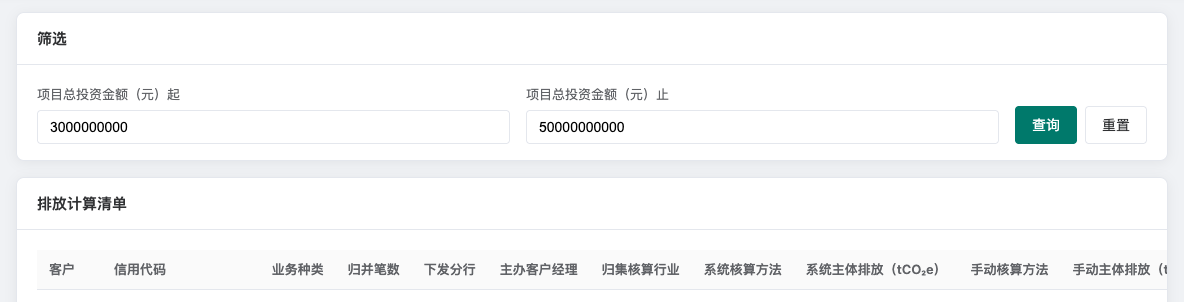
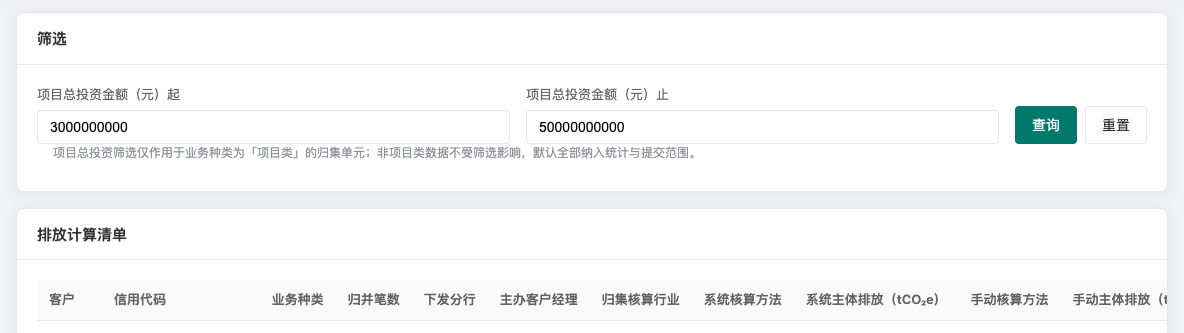
feat: 项目类专属投资额筛选与更新说明截图
项目总投资筛选仅作用于项目类归集单元，非项目类始终全量纳入统计与提交；同步更新说明文案与排放计算、排放数据 DEV 填报说明截图。

diff --git a/assets/js/common.js b/assets/js/common.js
@@ -2992,6 +2992,30 @@ function hasCalculationInvestmentFilter(filters) {
     || parseCalculationInvestmentYuanFilter(f.investMax) != null;
 }
 
+/** 项目总投资筛选仅作用于业务种类为项目类的归集单元（非项目类、项目按非项目计算不参与筛选） */
+function isCalculationInvestmentFilterTargetGroup(group, taskId, data) {
+  if (!group) return false;
+  if (group.bucket === 'non_project' || group.bucket === 'project_as_non_project') return false;
+  const d = data || (typeof Store !== 'undefined' ? Store.get() : null);
+  const primaryId = group.memberFormalIds?.[0];
+  if (!primaryId || !d) {
+    return group.bucket === 'project' || group.bucket === 'project_as_project';
+  }
+  const primary = (d.formalList || []).find(f => f.id === primaryId && f.taskId === taskId);
+  const cand = primary ? (d.candidates || []).find(c => c.id === primary.customerId) : null;
+  const row = { ...(cand || {}), ...(primary || {}) };
+  const accountingType = typeof resolveAccountingType === 'function'
+    ? resolveAccountingType(row)
+    : (primary?.accountingType || row.accountingType);
+  if (accountingType === 'non_project' || accountingType === 'project_as_non_project') return false;
+  if (group.bucket === 'project' || group.bucket === 'project_as_project') return true;
+  const supp = supplementForCollectGroup(d, taskId, group.id);
+  const bucket = typeof resolveCollectedProjectBucket === 'function'
+    ? resolveCollectedProjectBucket(primary, cand, supp)
+    : null;
+  return bucket === 'project_as_project';
+}
+
 /** 归集单元项目总投资（元）：汇总组内项目明细，无项目投资额时返回 null */
 function getCollectGroupProjectTotalInvestmentYuan(group, taskId, data) {
   const d = data || (typeof Store !== 'undefined' ? Store.get() : null);
@@ -3035,8 +3059,10 @@ function filterCalculationGroupsByInvestment(groups, filters, taskId, data) {
   const minYuan = parseCalculationInvestmentYuanFilter(filters?.investMin);
   const maxYuan = parseCalculationInvestmentYuanFilter(filters?.investMax);
   if (minYuan == null && maxYuan == null) return groups || [];
+  const d = data || (typeof Store !== 'undefined' ? Store.get() : null);
   return (groups || []).filter(group => {
-    const yuan = getCollectGroupProjectTotalInvestmentYuan(group, taskId, data);
+    if (!isCalculationInvestmentFilterTargetGroup(group, taskId, d)) return true;
+    const yuan = getCollectGroupProjectTotalInvestmentYuan(group, taskId, d);
     if (yuan == null) return false;
     if (minYuan != null && yuan < minYuan) return false;
     if (maxYuan != null && yuan > maxYuan) return false;
@@ -3103,7 +3129,9 @@ function formatCalculationScopeLockHint(task) {
   if (lock.investMax != null && lock.investMax !== '') {
     parts.push(`止 ${Number(lock.investMax).toLocaleString('zh-CN', { maximumFractionDigits: 2 })} 元`);
   }
-  const range = parts.length ? `项目总投资 ${parts.join('，')}` : '全量清单';
+  const range = parts.length
+    ? `项目类 · 项目总投资 ${parts.join('，')}（非项目类全量包含）`
+    : '全量清单';
   const count = lock.groupCount != null ? `${lock.groupCount} 个归集单元` : '';
   return `${range}${count ? ` · ${count}` : ''}${lock.lockedAt ? ` · 锁定于 ${lock.lockedAt}` : ''}`;
 }

diff --git a/assets/js/update-changelog.js b/assets/js/update-changelog.js
@@ -13,16 +13,17 @@ const UPDATE_CHANGELOG = [
         type: 'feature',
         date: '2026-07-15 21:15',
         text: '在线收集填报页「排放数据（可同时填写多种方法）」卡片标题旁新增橙色 DEV「填报说明」入口（样式与批量导入说明一致）。侧栏说明各方法 Tab 的字段必填校验、主体排放计算条件、方法匹配与审核预览逻辑，并注明各行业各方法的采集字段、必填规则与排放量计算公式均以「碳核算模板配置中心」已发布模板为准。仅供 UAT/演示环境使用，正式系统不包含此入口。',
-        route: '#/supplement-fill'
+        route: '#/supplement-fill',
+        screenshot: `${CHANGELOG_SCREENSHOT_BASE}/supplement-emission-dev-spec.png?v=20260715k`
       },
       {
         menu: '碳排放计算',
         feature: '项目总投资金额筛选与提交锁定',
         type: 'feature',
         date: '2026-07-15 21:00',
-        text: '排放计算页「排放计算清单」上方新增筛选：项目总投资金额（元）起、项目总投资金额（元）止。查询后下方清单按投资额区间过滤；顶部总归因排放量、DQR/质量评级、已计算笔数及「投融资碳排放强度」全行与分行业统计均随当前筛选结果实时重算。点击「一键提交数据」时，系统按当前筛选清单锁定数据；后续核算结果查询、报告导出与企业碳账户归集仅包含锁定范围内的记录。',
+        text: '排放计算页「排放计算清单」上方新增筛选：项目总投资金额（元）起、项目总投资金额（元）止。筛选项仅针对业务种类为「项目类」的归集单元；非项目类数据不参与筛选，默认全部纳入清单、统计与一键提交范围。设置区间并查询后，仅项目类按项目总投资过滤，非项目类始终保留；顶部总归因排放量、DQR/质量评级、已计算笔数及「投融资碳排放强度」均随当前可见清单实时重算。点击「一键提交数据」时，系统按当前清单（项目类筛选结果 + 非项目类全量）锁定数据；后续核算结果查询、报告导出与企业碳账户归集仅包含锁定范围内的记录。',
         route: '#/calculation',
-        screenshot: `${CHANGELOG_SCREENSHOT_BASE}/calculation-invest-filter.png?v=20260715j`
+        screenshot: `${CHANGELOG_SCREENSHOT_BASE}/calculation-invest-filter.png?v=20260715l`
       },
       {
         menu: '演示环境',

diff --git a/index.html b/index.html
@@ -4,7 +4,7 @@
   <meta charset="UTF-8">
   <meta name="viewport" content="width=device-width, initial-scale=1.0">
   <title>华夏银行 - 投融资碳核算演示</title>
-  <link rel="stylesheet" href="assets/css/app.css?v=137">
+  <link rel="stylesheet" href="assets/css/app.css?v=138">
 </head>
 <body>
 <script src="assets/js/guide-constants.js?v=28"></script>
@@ -19,10 +19,10 @@
 <script src="assets/js/industry-config.js?v=14"></script>
 <script src="assets/vendor/xlsx.full.min.js"></script>
 <script src="assets/js/factors-helper.js?v=62"></script>
-<script src="assets/js/common.js?v=200"></script>
-<script src="assets/js/update-changelog.js?v=29"></script>
+<script src="assets/js/common.js?v=201"></script>
+<script src="assets/js/update-changelog.js?v=32"></script>
 <script src="assets/js/collect-groups.js?v=7"></script>
-<script src="assets/js/store.js?v=92"></script>
+<script src="assets/js/store.js?v=93"></script>
 <script src="assets/js/menu-permissions.js?v=4"></script>
 <script src="assets/js/carbon-account.js?v=42"></script>
 <script src="assets/js/method-config-flat-glass-energy.js?v=3"></script>
@@ -31,7 +31,7 @@
 <script src="assets/js/method-config-editor.js?v=58"></script>
 <script src="assets/js/table-column-resize.js?v=1"></script>
 <script src="assets/js/spa-nav.js?v=32"></script>
-<script src="assets/js/spa-views.js?v=199"></script>
+<script src="assets/js/spa-views.js?v=200"></script>
 <script src="assets/js/method-config-views.js?v=67"></script>
 <script src="assets/js/batch-import-dev-spec.js?v=4"></script>
 <script src="assets/js/supplement-emission-dev-spec.js?v=2"></script>

diff --git a/assets/js/spa-views.js b/assets/js/spa-views.js
@@ -822,12 +822,13 @@ SPA_VIEWS['#/calculation'] = function(ctx) {
             </div>
           </div>
         </div>
+        <p class="calculation-filter-hint">项目总投资筛选仅作用于业务种类为「项目类」的归集单元；非项目类数据不受筛选影响，默认全部纳入统计与提交范围。</p>
         </fieldset>
       </div>
     </div>
     <div class="card"><div class="card-header"><h3>排放计算清单</h3></div><div class="card-body table-wrap"><table class="data-table">
     <thead><tr>${renderCalculationGroupTableHead()}</tr></thead>
-    <tbody>${view.rows.length ? view.rows.map(g => renderCalculationGroupTableRow(g, taskId, d)).join('') : `<tr><td colspan="${calculationGroupTableColCount()}" style="text-align:center;padding:32px;color:#909399">${allGroups.length && hasInvestFilter ? '无符合项目总投资筛选条件的归集单元' : '暂无排放计算清单数据'}</td></tr>`}</tbody></table></div>
+    <tbody>${view.rows.length ? view.rows.map(g => renderCalculationGroupTableRow(g, taskId, d)).join('') : `<tr><td colspan="${calculationGroupTableColCount()}" style="text-align:center;padding:32px;color:#909399">${allGroups.length && hasInvestFilter ? '无符合项目总投资筛选条件的项目类归集单元（非项目类不受筛选影响）' : '暂无排放计算清单数据'}</td></tr>`}</tbody></table></div>
     ${groups.length ? renderPagination(listKey, view) : ''}</div>`;
 };
 

diff --git a/assets/js/store.js b/assets/js/store.js
@@ -3439,7 +3439,7 @@ const Store = {
       ? filterCalculationGroupsByInvestment(allGroups, filters, taskId, d)
       : allGroups;
     if (hasInvestFilter && !filteredGroups.length) {
-      return { ok: false, message: '当前项目总投资筛选条件下无排放计算清单，请调整筛选范围后再提交' };
+      return { ok: false, message: '当前项目总投资筛选条件下无项目类排放计算清单，请调整筛选范围后再提交' };
     }
     const groupsForLock = hasInvestFilter ? filteredGroups : allGroups;
     const scopedFormalIds = typeof getFormalIdsFromCalculationGroups === 'function'

diff --git a/assets/css/app.css b/assets/css/app.css
@@ -905,6 +905,13 @@ body.drawer-open { overflow: hidden; }
   align-items: end;
   gap: 12px 16px;
 }
+.calculation-filter-hint {
+  margin: 0;
+  padding: 0 16px 12px;
+  font-size: 12px;
+  line-height: 1.55;
+  color: #909399;
+}
 .filter-action-cell .filter-action-btns { justify-content: flex-start; }
 .ledger-detail-toolbar {
   display: flex;
